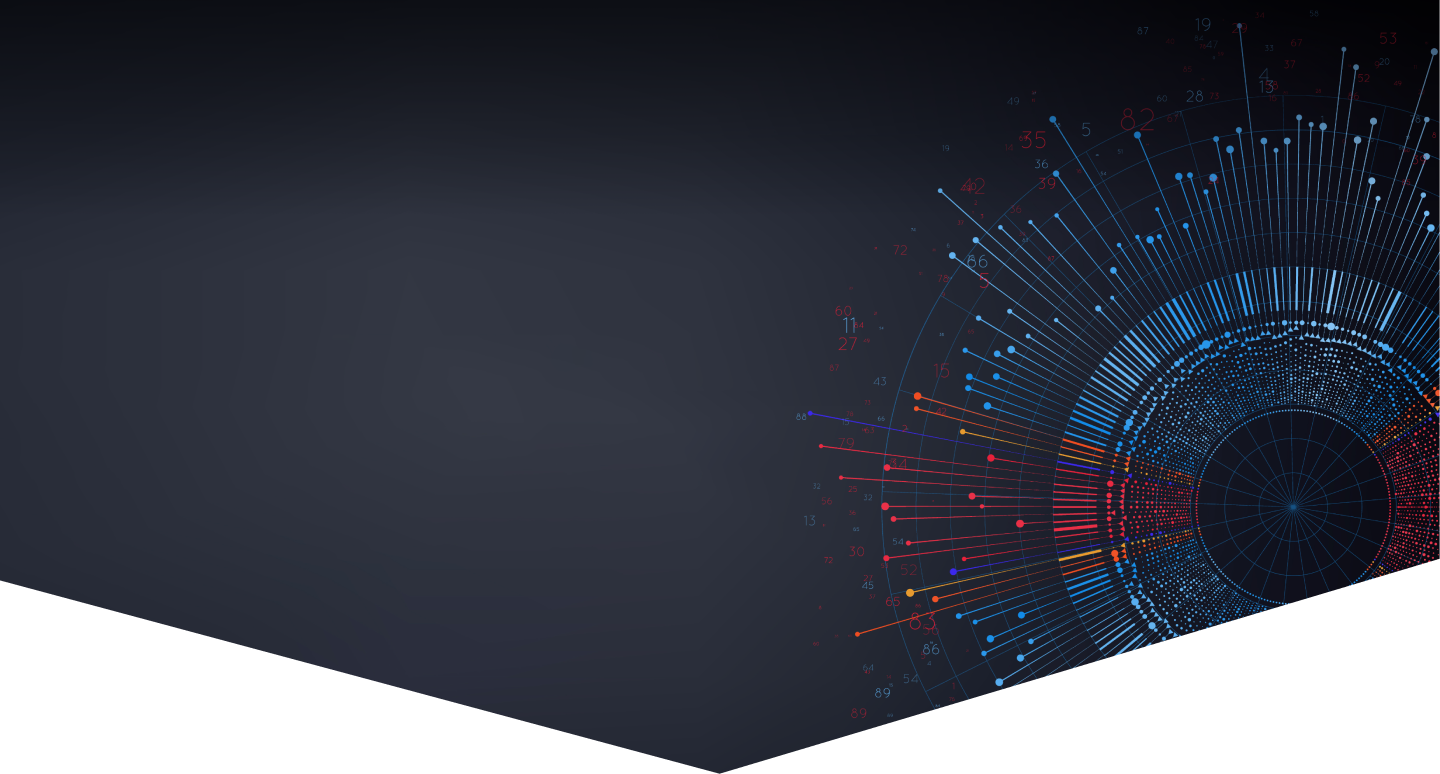
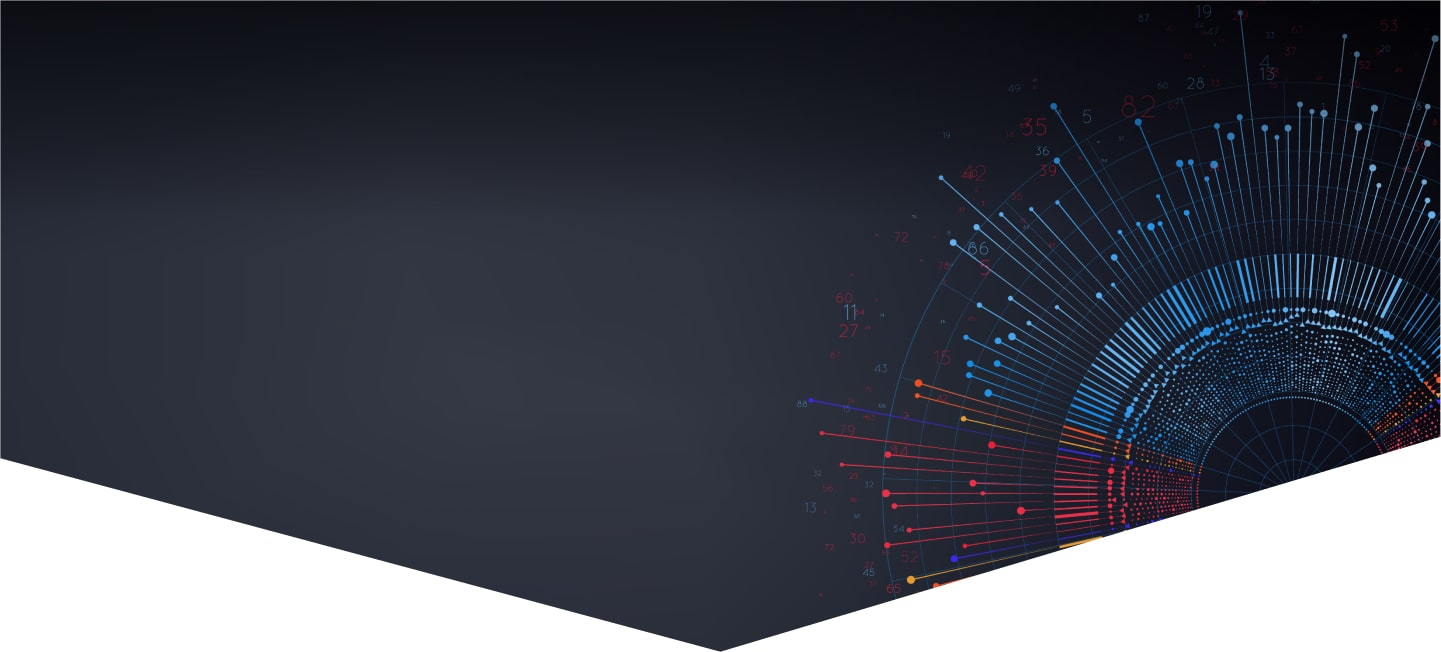
Home Page styling issues fixed.

diff --git a/styles/Home.module.css b/styles/Home.module.css
@@ -132,7 +132,7 @@ left: 0;
 .intro-background{
   background-image: url('../public/images/background_intro.png');
   background-size: cover;
-  min-height: 100vh;
+  min-height: 70vh;
   width: 100vw;
 }
 
